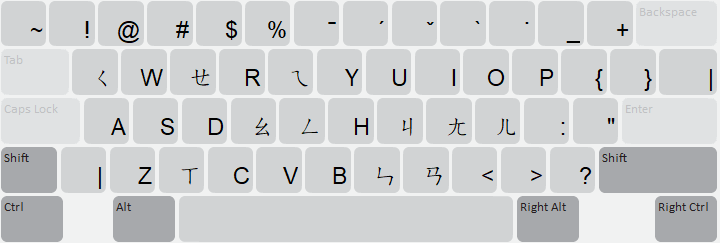
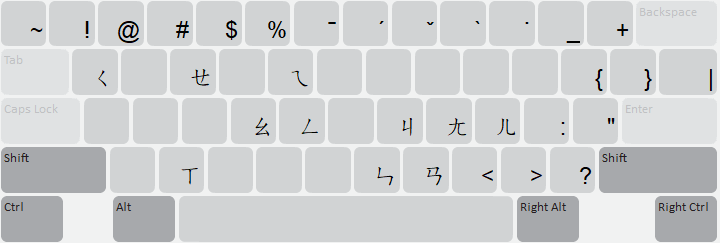
[formosa] Adjustments needed to work better

diff --git a/release/f/formosa/source/help/formosa.php b/release/f/formosa/source/help/formosa.php
@@ -1,12 +1,9 @@
 <?php 
   $pagename = 'Formosa Keyboard Help';
-  $pagetitle = 'Formosa Keyboard Help';
-  // Header we will tidy up later  
-  require_once('header.php');
-
-
+  $pagetitle = $pagename;
+// Header
+require_once('header.php');
 ?>
-
 
 <p style='margin: 16px 0 0 0'>
 This keyboard is a bopomofo keyboard for the bopomofo script. It is based on a US Qwerty keyboard using a phonetic layout.
@@ -18,11 +15,5 @@ This keyboard is a bopomofo keyboard for the bopomofo script. It is based on a U
 
 <h2>Tablet Keyboard Layout</h2>
 <div id='osk-tablet' data-states='default shift'>
-</div>
-
-<h2>Phone Keyboard Layout</h2>
-<p>Due to the size and number of keys, some characters are hidden in the long press. 
-	Press and hold on the key with a little dot on the top right to reveal and use them.</p>
-<div id='osk-phone' data-states='default shift numeric symbol currency'>
 </div>
 

diff --git a/release/f/formosa/README.md b/release/f/formosa/README.md
@@ -8,7 +8,7 @@ Formosa keyboard
 Description
 -----------
 
-Formosa generated from template
+This keyboard is a bopomofo keyboard for the bopomofo script. It is based on a US Qwerty keyboard using a phonetic layout. 
 
 Links
 -----

diff --git a/release/f/formosa/HISTORY.md b/release/f/formosa/HISTORY.md
@@ -1,6 +1,10 @@
 Formosa Change History
 ====================
 
+1.0.1 (2024-07-05)
+----------------
+* Fix language tag from en to zh-Bopo
+* Adjust tablet layout for accessing shift
 
 1.0 (2024-07-03)
 ----------------
